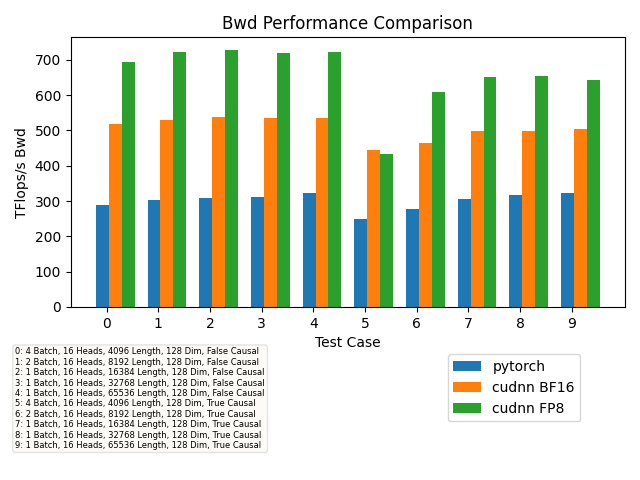
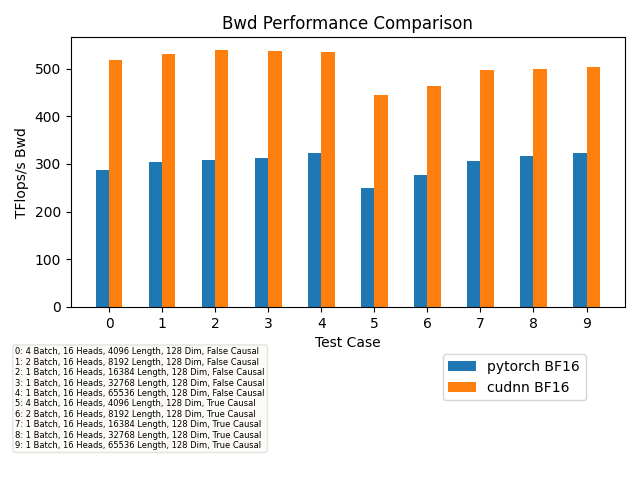
Update benchmark script
* Update the failing builds.

* Relax d=128 checks in sdpa fprop node.
Update the benchmark script and results to remove the fp8 results

diff --git a/benchmark/benchmark_flash_attention.py b/benchmark/benchmark_flash_attention.py
@@ -215,19 +215,11 @@ fields = [
     "cudnn BF16 (TFlops/s fwd + bwd)",
 ]
 
-if cudnn.backend_version() >= 90100:
-    fields += [
-        "cudnn FP8 (TFlops/s fwd)",
-        "cudnn FP8 (TFlops/s bwd)",
-        "cudnn FP8 (TFlops/s fwd + bwd)",
-    ]
 csvwriter.writerow(fields)
 
 methods = ["Pytorch"]
 if cudnn is not None:
     methods += ["cudnn_bf16"]
-    if cudnn.backend_version() >= 90100:
-        methods += ["cudnn_fp8"]
 
 time_f = {}
 time_b = {}
@@ -452,274 +444,6 @@ for causal, headdim, bs_seqlen in itertools.product(
 
         time_f[config, "cudnn_bf16"] = f
         time_b[config, "cudnn_bf16"] = b
-
-    if "cudnn_fp8" in methods and device == "cuda" and cudnn is not None:
-        is_causal = causal
-        is_dropout = False if (abs(dropout_p - 0.0) < 1e-6) else True
-        is_infer = False
-        input_type = dtype
-        attn_scale = headdim ** (-0.5)
-        dropout_prob = dropout_p if is_dropout else 0.0
-
-        shape_qkvo = (batch_size, nheads, seqlen, headdim)
-        stride_qkv = (seqlen * 3 * nheads * headdim, headdim, 3 * nheads * headdim, 1)
-        stride_o = (seqlen * nheads * headdim, headdim, nheads * headdim, 1)
-        offset_q, offset_k, offset_v = [nheads * headdim * i for i in range(3)]
-
-        qkv_gpu = torch.randint(
-            256,
-            (batch_size * seqlen * 3 * nheads * headdim,),
-            dtype=torch.uint8,
-            device="cuda",
-        )
-        q_gpu, k_gpu, v_gpu = [
-            torch.as_strided(qkv_gpu, shape_qkvo, stride_qkv, storage_offset=offset)
-            for offset in [offset_q, offset_k, offset_v]
-        ]
-        o_gpu = torch.empty(*shape_qkvo, dtype=torch.uint8, device="cuda").as_strided(
-            shape_qkvo, stride_o
-        )
-        dQ_gpu, dK_gpu, dV_gpu = [
-            torch.empty_like(tensor) for tensor in [q_gpu, k_gpu, v_gpu]
-        ]
-        dO_gpu = torch.randint_like(o_gpu, 256)
-
-        stats_gpu = (
-            torch.empty(
-                batch_size, nheads, seqlen, 1, dtype=torch.float32, device="cuda"
-            )
-            if not is_infer
-            else None
-        )
-
-        descale_q_gpu = torch.ones(1, 1, 1, 1, dtype=torch.float, device="cuda")
-        descale_k_gpu = torch.ones(1, 1, 1, 1, dtype=torch.float, device="cuda")
-        descale_v_gpu = torch.ones(1, 1, 1, 1, dtype=torch.float, device="cuda")
-        descale_s_gpu = torch.ones(1, 1, 1, 1, dtype=torch.float, device="cuda")
-        descale_o_gpu = torch.ones(1, 1, 1, 1, dtype=torch.float, device="cuda")
-        descale_dO_gpu = torch.ones(1, 1, 1, 1, dtype=torch.float, device="cuda")
-        descale_dP_gpu = torch.ones(1, 1, 1, 1, dtype=torch.float, device="cuda")
-
-        scale_s_gpu = torch.ones(1, 1, 1, 1, dtype=torch.float, device="cuda")
-        scale_o_gpu = torch.ones(1, 1, 1, 1, dtype=torch.float, device="cuda")
-        scale_dQ_gpu = torch.ones(1, 1, 1, 1, dtype=torch.float, device="cuda")
-        scale_dK_gpu = torch.ones(1, 1, 1, 1, dtype=torch.float, device="cuda")
-        scale_dV_gpu = torch.ones(1, 1, 1, 1, dtype=torch.float, device="cuda")
-        scale_dP_gpu = torch.ones(1, 1, 1, 1, dtype=torch.float, device="cuda")
-
-        amax_s_gpu = torch.zeros(1, 1, 1, 1, dtype=torch.float, device="cuda")
-        amax_o_gpu = torch.zeros(1, 1, 1, 1, dtype=torch.float, device="cuda")
-        amax_dQ_gpu = torch.zeros(1, 1, 1, 1, dtype=torch.float, device="cuda")
-        amax_dK_gpu = torch.zeros(1, 1, 1, 1, dtype=torch.float, device="cuda")
-        amax_dV_gpu = torch.zeros(1, 1, 1, 1, dtype=torch.float, device="cuda")
-        amax_dP_gpu = torch.zeros(1, 1, 1, 1, dtype=torch.float, device="cuda")
-
-        # cudnn graph forward
-        graph_fwd = cudnn.pygraph(
-            io_data_type=cudnn.data_type.FP8_E4M3,
-            intermediate_data_type=cudnn.data_type.FLOAT,
-            compute_data_type=cudnn.data_type.FLOAT,
-        )
-
-        q_fwd = graph_fwd.tensor_like(q_gpu).set_data_type(cudnn.data_type.FP8_E4M3)
-        k_fwd = graph_fwd.tensor_like(k_gpu).set_data_type(cudnn.data_type.FP8_E4M3)
-        v_fwd = graph_fwd.tensor_like(v_gpu).set_data_type(cudnn.data_type.FP8_E4M3)
-
-        descale_q_fwd = graph_fwd.tensor_like(descale_q_gpu)
-        descale_k_fwd = graph_fwd.tensor_like(descale_k_gpu)
-        descale_v_fwd = graph_fwd.tensor_like(descale_v_gpu)
-        descale_s_fwd = graph_fwd.tensor_like(descale_s_gpu)
-
-        scale_s_fwd = graph_fwd.tensor_like(scale_s_gpu)
-        scale_o_fwd = graph_fwd.tensor_like(scale_o_gpu)
-
-        o_fwd, stats_fwd, amax_s_fwd, amax_o_fwd = graph_fwd.sdpa_fp8(
-            q=q_fwd,
-            k=k_fwd,
-            v=v_fwd,
-            descale_q=descale_q_fwd,
-            descale_k=descale_k_fwd,
-            descale_v=descale_v_fwd,
-            descale_s=descale_s_fwd,
-            scale_s=scale_s_fwd,
-            scale_o=scale_o_fwd,
-            is_inference=is_infer,
-            attn_scale=attn_scale,
-            use_causal_mask=is_causal,
-        )
-
-        o_fwd.set_output(True).set_dim(o_gpu.size()).set_stride(
-            o_gpu.stride()
-        ).set_data_type(cudnn.data_type.FP8_E4M3)
-        (
-            stats_fwd.set_output(True)
-            .set_dim(stats_gpu.size())
-            .set_stride(stats_gpu.stride())
-            .set_data_type(cudnn.data_type.FLOAT)
-            if not is_infer
-            else None
-        )
-        amax_s_fwd.set_output(True).set_dim(amax_s_gpu.size()).set_stride(
-            amax_s_gpu.stride()
-        ).set_data_type(cudnn.data_type.FLOAT)
-        amax_o_fwd.set_output(True).set_dim(amax_o_gpu.size()).set_stride(
-            amax_o_gpu.stride()
-        ).set_data_type(cudnn.data_type.FLOAT)
-
-        graph_fwd.validate()
-        graph_fwd.build_operation_graph()
-        graph_fwd.create_execution_plans([cudnn.heur_mode.A])
-        graph_fwd.check_support()
-        graph_fwd.build_plans()
-
-        # cudnn graph backward
-        graph_bwd = cudnn.pygraph(
-            io_data_type=cudnn.data_type.FP8_E4M3,
-            intermediate_data_type=cudnn.data_type.FLOAT,
-            compute_data_type=cudnn.data_type.FLOAT,
-        )
-
-        q_bwd = graph_bwd.tensor_like(q_gpu).set_data_type(cudnn.data_type.FP8_E4M3)
-        k_bwd = graph_bwd.tensor_like(k_gpu).set_data_type(cudnn.data_type.FP8_E4M3)
-        v_bwd = graph_bwd.tensor_like(v_gpu).set_data_type(cudnn.data_type.FP8_E4M3)
-        o_bwd = graph_bwd.tensor_like(o_gpu).set_data_type(cudnn.data_type.FP8_E4M3)
-        dO_bwd = graph_bwd.tensor_like(dO_gpu).set_data_type(cudnn.data_type.FP8_E4M3)
-        stats_bwd = graph_bwd.tensor_like(stats_gpu)
-
-        descale_q_bwd = graph_bwd.tensor_like(descale_q_gpu)
-        descale_k_bwd = graph_bwd.tensor_like(descale_k_gpu)
-        descale_v_bwd = graph_bwd.tensor_like(descale_v_gpu)
-        descale_o_bwd = graph_bwd.tensor_like(descale_o_gpu)
-        descale_dO_bwd = graph_bwd.tensor_like(descale_dO_gpu)
-        descale_s_bwd = graph_bwd.tensor_like(descale_s_gpu)
-        descale_dP_bwd = graph_bwd.tensor_like(descale_dP_gpu)
-
-        scale_s_bwd = graph_bwd.tensor_like(scale_s_gpu)
-        scale_dQ_bwd = graph_bwd.tensor_like(scale_dQ_gpu)
-        scale_dK_bwd = graph_bwd.tensor_like(scale_dK_gpu)
-        scale_dV_bwd = graph_bwd.tensor_like(scale_dV_gpu)
-        scale_dP_bwd = graph_bwd.tensor_like(scale_dP_gpu)
-
-        dQ_bwd, dK_bwd, dV_bwd, amax_dQ_bwd, amax_dK_bwd, amax_dV_bwd, amax_dP_bwd = (
-            graph_bwd.sdpa_fp8_backward(
-                q=q_bwd,
-                k=k_bwd,
-                v=v_bwd,
-                o=o_bwd,
-                dO=dO_bwd,
-                stats=stats_bwd,
-                descale_q=descale_q_bwd,
-                descale_k=descale_k_bwd,
-                descale_v=descale_v_bwd,
-                descale_o=descale_o_bwd,
-                descale_dO=descale_dO_bwd,
-                descale_s=descale_s_bwd,
-                descale_dP=descale_dP_bwd,
-                scale_s=scale_s_bwd,
-                scale_dQ=scale_dQ_bwd,
-                scale_dK=scale_dK_bwd,
-                scale_dV=scale_dV_bwd,
-                scale_dP=scale_dP_bwd,
-                attn_scale=attn_scale,
-                use_causal_mask=is_causal,
-            )
-        )
-
-        dQ_bwd.set_output(True).set_dim(dQ_gpu.size()).set_stride(
-            dQ_gpu.stride()
-        ).set_data_type(cudnn.data_type.FP8_E4M3)
-        dK_bwd.set_output(True).set_dim(dK_gpu.size()).set_stride(
-            dK_gpu.stride()
-        ).set_data_type(cudnn.data_type.FP8_E4M3)
-        dV_bwd.set_output(True).set_dim(dV_gpu.size()).set_stride(
-            dV_gpu.stride()
-        ).set_data_type(cudnn.data_type.FP8_E4M3)
-        amax_dQ_bwd.set_output(True).set_dim(amax_dQ_gpu.size()).set_stride(
-            amax_dQ_gpu.stride()
-        ).set_data_type(cudnn.data_type.FLOAT)
-        amax_dK_bwd.set_output(True).set_dim(amax_dK_gpu.size()).set_stride(
-            amax_dK_gpu.stride()
-        ).set_data_type(cudnn.data_type.FLOAT)
-        amax_dV_bwd.set_output(True).set_dim(amax_dV_gpu.size()).set_stride(
-            amax_dV_gpu.stride()
-        ).set_data_type(cudnn.data_type.FLOAT)
-        amax_dP_bwd.set_output(True).set_dim(amax_dP_gpu.size()).set_stride(
-            amax_dP_gpu.stride()
-        ).set_data_type(cudnn.data_type.FLOAT)
-
-        graph_bwd.validate()
-        graph_bwd.build_operation_graph()
-        graph_bwd.create_execution_plans([cudnn.heur_mode.A])
-        graph_bwd.check_support()
-        graph_bwd.build_plans()
-
-        variant_pack_fwd = {
-            q_fwd: q_gpu,
-            k_fwd: k_gpu,
-            v_fwd: v_gpu,
-            o_fwd: o_gpu,
-            stats_fwd: stats_gpu,
-            descale_q_fwd: descale_q_gpu,
-            descale_k_fwd: descale_k_gpu,
-            descale_v_fwd: descale_v_gpu,
-            descale_s_fwd: descale_s_gpu,
-            scale_s_fwd: scale_s_gpu,
-            scale_o_fwd: scale_o_gpu,
-            amax_s_fwd: amax_s_gpu,
-            amax_o_fwd: amax_o_gpu,
-        }
-
-        variant_pack_bwd = {
-            q_bwd: q_gpu,
-            k_bwd: k_gpu,
-            v_bwd: v_gpu,
-            o_bwd: o_gpu,
-            dQ_bwd: dQ_gpu,
-            dK_bwd: dK_gpu,
-            dV_bwd: dV_gpu,
-            dO_bwd: dO_gpu,
-            stats_bwd: stats_gpu,
-            descale_q_bwd: descale_q_gpu,
-            descale_k_bwd: descale_k_gpu,
-            descale_v_bwd: descale_v_gpu,
-            descale_o_bwd: descale_o_gpu,
-            descale_s_bwd: descale_s_gpu,
-            descale_dP_bwd: descale_dP_gpu,
-            descale_dO_bwd: descale_dO_gpu,
-            scale_s_bwd: scale_s_gpu,
-            scale_dQ_bwd: scale_dQ_gpu,
-            scale_dK_bwd: scale_dK_gpu,
-            scale_dV_bwd: scale_dV_gpu,
-            scale_dP_bwd: scale_dP_gpu,
-            amax_dQ_bwd: amax_dQ_gpu,
-            amax_dK_bwd: amax_dK_gpu,
-            amax_dV_bwd: amax_dV_gpu,
-            amax_dP_bwd: amax_dP_gpu,
-        }
-
-        workspace = torch.empty(
-            max(graph_fwd.get_workspace_size(), graph_bwd.get_workspace_size()),
-            device="cuda",
-            dtype=torch.uint8,
-        )
-
-        f = time_fwd(
-            graph_fwd.execute,
-            variant_pack_fwd,
-            workspace,
-            repeats=repeats,
-            verbose=False,
-        )
-        b = time_fwd(
-            graph_bwd.execute,
-            variant_pack_bwd,
-            workspace,
-            repeats=repeats,
-            verbose=False,
-        )
-
-        time_f[config, "cudnn_fp8"] = f
-        time_b[config, "cudnn_fp8"] = b
 
     row = []
     row.append(str(batch_size))

diff --git a/include/cudnn_frontend/node/scaled_dot_product_flash_attention.h b/include/cudnn_frontend/node/scaled_dot_product_flash_attention.h
@@ -86,9 +86,17 @@ class SDPANode : public NodeCRTP<SDPANode> {
                                        "For group-query attention, number of heads for key and query must be a factor "
                                        "of number of heads for query");
 
-        RETURN_CUDNN_FRONTEND_ERROR_IF((d_qk > 128) || (d_qk % 8 != 0) || (d_v > 128) || (d_v % 8 != 0),
-                                       error_code_t::GRAPH_NOT_SUPPORTED,
-                                       "Num hidden_dim shoud be less than 128 and hidden_dim should be multiple of 8");
+        if (detail::get_backend_version() >= 90000) {
+            RETURN_CUDNN_FRONTEND_ERROR_IF(
+                (d_qk > 256) || (d_qk % 8 != 0) || (d_v > 256) || (d_v % 8 != 0),
+                error_code_t::GRAPH_NOT_SUPPORTED,
+                "Num hidden_dim shoud be less than 256 and hidden_dim should be multiple of 8");
+        } else {
+            RETURN_CUDNN_FRONTEND_ERROR_IF(
+                (d_qk > 128) || (d_qk % 8 != 0) || (d_v > 128) || (d_v % 8 != 0),
+                error_code_t::GRAPH_NOT_SUPPORTED,
+                "Num hidden_dim shoud be less than 128 and hidden_dim should be multiple of 8");
+        }
 
         // validate options for attn_scale
         auto const& attn_scale    = attributes.inputs.find(input_names::Attn_scale);

diff --git a/include/cudnn_frontend/node/sdpa_fp8.h b/include/cudnn_frontend/node/sdpa_fp8.h
@@ -86,6 +86,21 @@ class SDPAFP8Node : public NodeCRTP<SDPAFP8Node> {
 #undef CUDNN_FE_SDPA_VALIDATE_DIM_STRIDE
 
         CHECK_CUDNN_FRONTEND_ERROR(attributes.validate_inputs());
+
+        int64_t d_qk = attributes.inputs.at(input_names::Q)->get_dim()[3];
+        int64_t d_v  = attributes.inputs.at(input_names::V)->get_dim()[3];
+
+        if (detail::get_backend_version() >= 90101) {
+            RETURN_CUDNN_FRONTEND_ERROR_IF(
+                (d_qk > 256) || (d_qk % 8 != 0) || (d_v > 256) || (d_v % 8 != 0),
+                error_code_t::GRAPH_NOT_SUPPORTED,
+                "Num hidden_dim shoud be less than 256 and hidden_dim should be multiple of 8");
+        } else {
+            RETURN_CUDNN_FRONTEND_ERROR_IF(
+                (d_qk > 128) || (d_qk % 8 != 0) || (d_v > 128) || (d_v % 8 != 0),
+                error_code_t::GRAPH_NOT_SUPPORTED,
+                "Num hidden_dim shoud be less than 128 and hidden_dim should be multiple of 8");
+        }
         return {error_code_t::OK, ""};
     }
 

diff --git a/benchmark/README.md b/benchmark/README.md
@@ -3,6 +3,7 @@
 ## Contents
 - Dockerfile to create a docker container for the dependencies.
 - benchmark_flash_attention.py which runs cudnn, pytorch upto 64k sequence length.
+- Pytorch native sdpa operation vs cudnn sdpa operation.
 
 ## Steps to run
 Lock the clocks.
@@ -43,3 +44,7 @@ Please refer to the [benchmark_results.csv](benchmark_results.csv) for sample ou
 
 #### Fwd + Bprop
 ![Comparison of pytorch and cudnn](images/fwd_bprop.png)
+
+## Pytorch adoption
+
+cuDNN v9 can achieve over 2x the performance of the comparable PyTorch eager implementation, as detailed in [(Beta) Implementing High-Performance Transformers with Scaled Dot Product Attention (SDPA)](https://pytorch.org/tutorials/intermediate/scaled_dot_product_attention_tutorial.html) PyTorch eager mode SDPA doesn't use cuDNN today, but adding a cuDNN-based implementation is in progress (see the PyTorch PRs for [Fprop](https://github.com/pytorch/pytorch/pull/115663), and [Bprop](https://github.com/pytorch/pytorch/pull/122510)).
